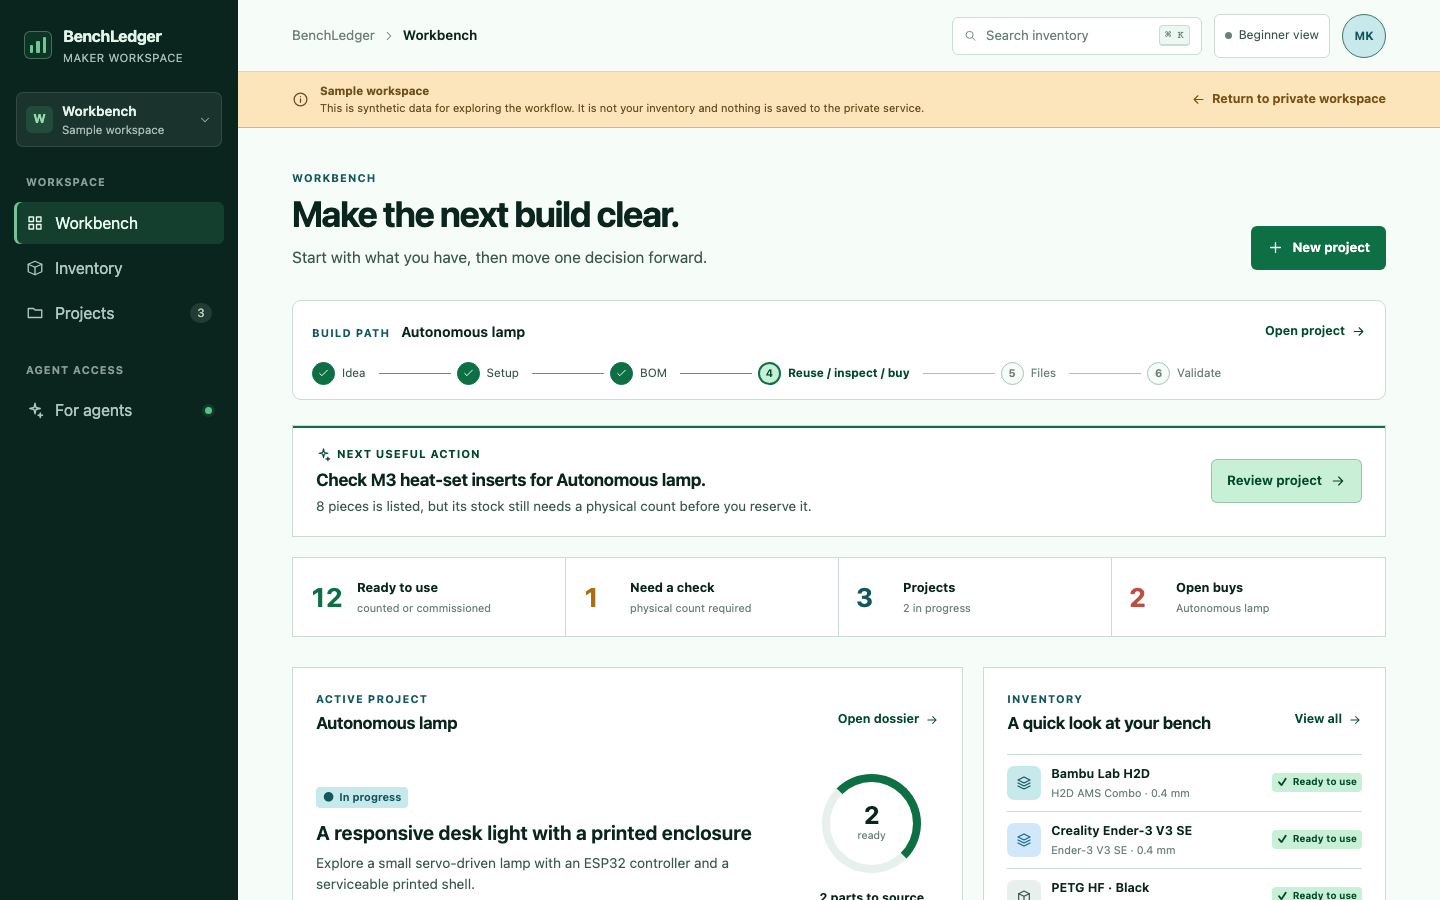
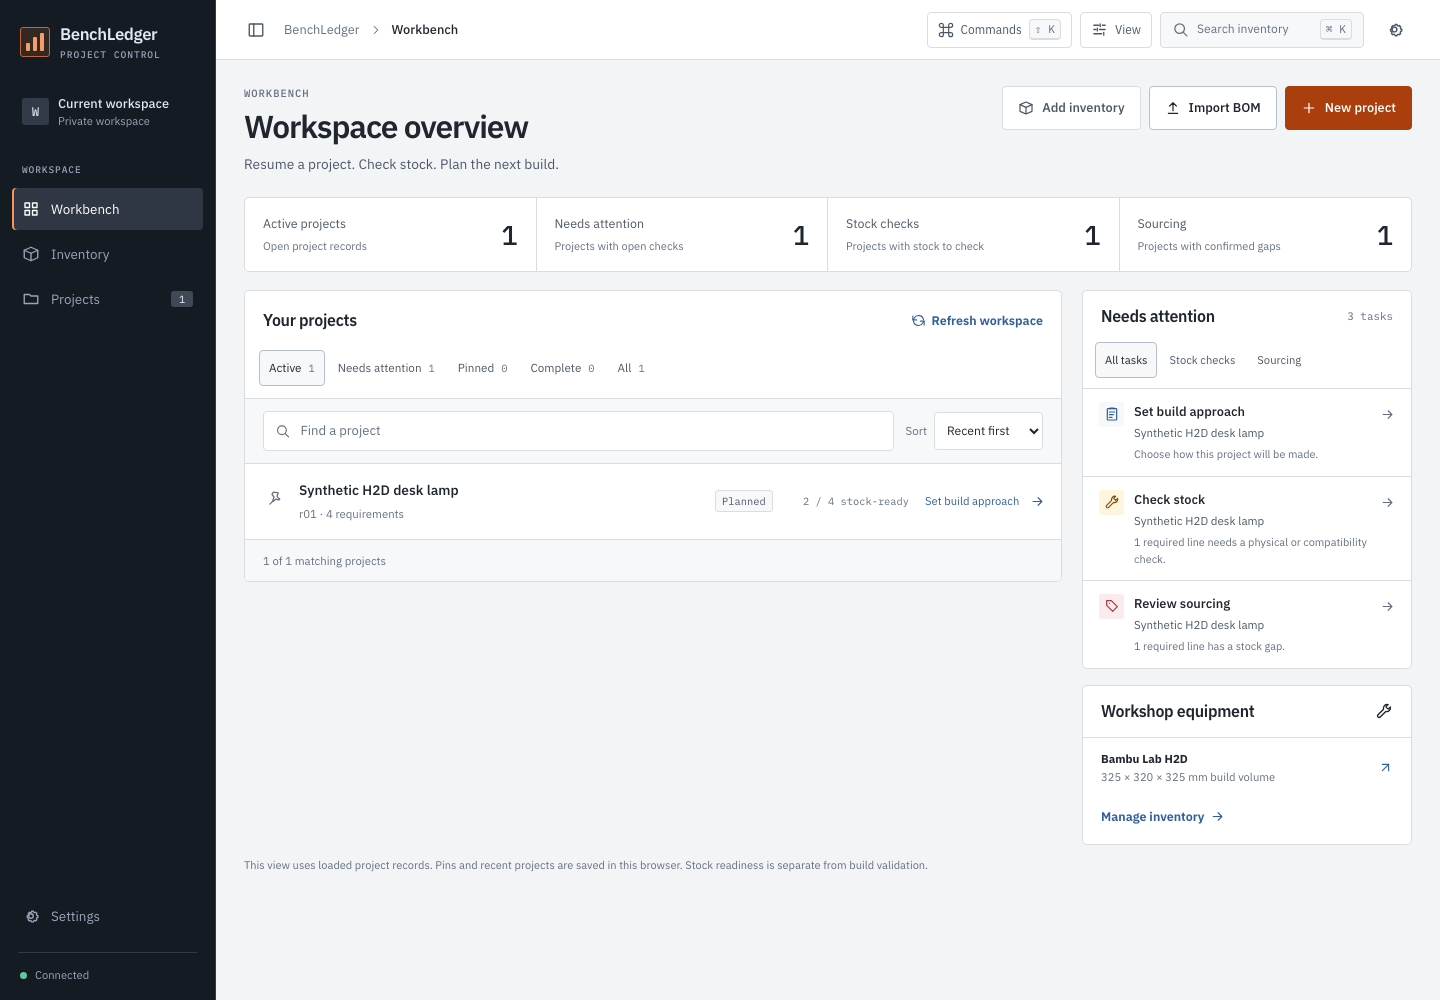
docs: refresh README and maker visuals

diff --git a/README.md b/README.md
@@ -1,215 +1,155 @@
 <p align="center">
-  <img src="docs/assets/benchledger-lockup.svg" alt="BenchLedger" width="520">
+  <img src="docs/assets/benchledger-lockup.svg" alt="BenchLedger" width="560">
 </p>
 
-<p align="center"><strong>Know what you have. Plan what to build. Close the loop.</strong></p>
+<p align="center"><strong>Your workshop's memory, project brain and AI-ready maker workspace.</strong></p>
 
 <p align="center">
-  BenchLedger is a self-hosted workspace for 3D-printing and electronics makers, from hobbyists to expert workshops.
+  BenchLedger helps 3D-printing and electronics makers go from <em>idea → parts → build → finished project</em><br>
+  without losing track of what they own, what they need, or why a decision was made.
 </p>
 
 <p align="center">
-  Manage projects yourself in the web UI, or ask an authorized AI agent to help. Both use the same records, application rules, and approval boundaries.
+  <img alt="Apache 2.0" src="https://img.shields.io/badge/license-Apache--2.0-0f766e">
+  <img alt="Node 24+" src="https://img.shields.io/badge/Node-24%2B-3c873a">
+  <img alt="Self-hosted" src="https://img.shields.io/badge/self--hosted-local--first-334155">
+  <img alt="MCP ready" src="https://img.shields.io/badge/AI-MCP--ready-c2410c">
 </p>
 
 > [!NOTE]
-> BenchLedger is an early open-source release. The private-LAN workflow is
-> working, but APIs, schemas, and MCP capabilities may change before 1.0.
+> BenchLedger is an early open-source release. The core private-LAN workflow works today, but APIs, schemas and MCP capabilities may change before 1.0.
 
-## Make a project you can trust
+![BenchLedger workbench showing active maker projects, stock checks, sourcing tasks and workshop equipment](docs/assets/benchledger-workspace.png)
 
-BenchLedger keeps the information around a maker project together. Use it to:
+## Why BenchLedger exists
 
-- Track printers, tools, accessories, spare parts, electronics, and consumables.
-- Keep exact product profiles for printers, filament, nozzles, plates, and parts.
-- Keep an append-only stock ledger with confirmed, uncertain, reserved, and unavailable states.
-- Start projects with work items, revisions, bills of materials (BOMs), and build gaps.
-- Correct project details and requirements, with reversible removal and retained history.
-- Export a read-only project brief or requirements CSV for review and handoff.
-- Use light or dark themes, compact rows and keyboard commands. See the [interface guide](docs/ui-design.md).
-- See what you can reuse, what needs a physical check, and what is missing.
-- Compare recorded supplier offers, package quantities, observed prices, and alternatives.
-- Keep versioned CAD, STEP, STL, 3MF, firmware, drawing, and validation files.
-- Bind build configurations and SHA-256 hashes to project revisions.
-- Record actual use, returns, loss, leftovers, and converted assets after a build.
+Maker projects get messy fast. The CAD file is in one folder. The printer profile is somewhere else. You *think* you still have the right filament. A part was ordered three months ago, but did it arrive? The BOM changed after revision two. An AI agent can help, but only if it has trustworthy context.
 
-It treats uncertainty honestly. An old order is evidence that something was bought,
-not proof that it is still on hand. A compatible-looking part is a candidate,
-not an exact match. Recommendations can retain their reason, source, observation
-time, and next physical check.
+BenchLedger gives the workshop one shared source of truth.
 
-## One workspace, two ways to work
+- **Know what you actually have.** Track printers, tools, filament, electronics, fasteners, spares and consumables with explicit evidence states.
+- **Plan builds properly.** Keep requirements, BOMs, revisions, fabrication routes, build setup and gaps together.
+- **Source what is missing.** Review recorded supplier offers, package quantities, prices and alternatives without pretending an order equals stock.
+- **Keep files tied to the build.** Store versioned CAD, STEP, STL, 3MF, firmware, drawings and validation artefacts against project revisions.
+- **Close the loop.** Record what was used, returned, lost, left over or converted into a new workshop asset.
+- **Let AI help safely.** Authorised agents use the same application rules and approval boundaries as the web UI through MCP.
 
-Use the web UI when you want to manage the project yourself. Add inventory,
-organize categories, create a project, review its BOM, attach files, and close
-out the build from the same workspace.
+## Built for real maker workflows
 
-Use authorized AI agents when you want help with the same bounded workflow.
-The model-neutral MCP server lets an agent inspect inventory, calculate BOM gaps,
-prepare shopping proposals, manage revisions and artifacts, and draft project
-close-out reconciliation. The agent works against the same records through the
-same application rules as the UI. It is not a separate agent-only system.
+BenchLedger is deliberately opinionated about uncertainty. **Bought** is not the same as **on hand**. **Looks compatible** is not the same as **verified**. **Recommended** is not the same as **approved**.
 
-Beginners see plain outcomes such as **Ready to use**, **Check quantity**, and
-**Need to buy**. Expert detail remains available in place: exact variants,
-dimensions, lots, compatibility evidence, build configuration, hashes, and audit history.
+That lets the interface stay simple for everyday use while preserving expert detail when you need it.
 
-BenchLedger does **not** purchase products, scrape retailers, execute uploads,
-slice models, generate G-code, or control printers.
+| Maker view | What it means |
+| --- | --- |
+| **Ready** | BenchLedger has enough evidence to use it |
+| **Check** | A physical count or compatibility check is needed |
+| **Decide** | The project needs a maker decision |
+| **Source** | The project has a confirmed gap |
 
-## A project from idea to close-out
+Technical mode exposes exact variants, dimensions, lots, provenance, revision scope, build configuration, hashes and audit history.
+## From idea to finished build
 
 ```mermaid
 flowchart LR
-  I[Inventory] --> P[Project]
-  P --> B[BOM and build setup]
-  B --> G{Gap check}
-  G -->|Reuse| R[Reserve stock]
-  G -->|Inspect| C[Physical check]
-  G -->|Missing| S[Shopping proposal]
-  R --> F[Files and validation]
-  C --> F
-  S --> F
-  F --> X[Post-project reconciliation]
-  X --> I
+  A[Idea] --> P[Project]
+  P --> R[Requirements + BOM]
+  R --> G{Gap check}
+  G -->|Ready| U[Reserve + build]
+  G -->|Check| C[Physical check]
+  G -->|Source| S[Review sourcing]
+  C --> U
+  S --> U
+  U --> F[Files + validation]
+  F --> X[Close-out]
+  X --> I[Updated inventory]
 ```
 
-![BenchLedger synthetic sample workspace showing a project build path, the next useful action, inventory status, and project summary](docs/assets/benchledger-workspace.png)
+The current release includes guided project setup, reviewed BOM imports, project corrections with retained history, inspection queues, sourcing review, revision-aware artefacts, interruption-safe saves and post-build reconciliation.
 
-### Set up inventory categories
+## AI-native, not AI-dependent
 
-Open **Settings → Manage inventory categories** before adding stock. Add a
-top-level category such as “Workshop” or “Electronics”; you can add one level of
-subcategories such as “Workshop / Measuring tools”. Rename or change the order
-when your storage changes, or archive a category that should no longer be used.
+BenchLedger works perfectly well as a normal web application. If you use ChatGPT, Codex, Claude or another MCP-capable agent, the same workspace can also become structured maker context.
 
-When you choose **Inventory → Add item**, select the item type first. Beginner
-mode derives its category; technical mode lets you choose an active managed
-category. The item type remains the semantic kind used for
-matching (for example, `tool` or `electronic`); the managed category is the
-display label and is used by the Category filter. Existing legacy items can stay
-unassigned until you edit them. If no category is available, the add form links
-back to Settings so you can create one before continuing.
+An authorised agent can inspect inventory, calculate project gaps, prepare sourcing proposals, manage revisions and artefact metadata, and draft close-out reconciliation. It cannot silently purchase products, publish files, purge history, control your printer or bypass physical verification.
 
-## Five-minute local demo
+That distinction matters: **the agent helps run the workflow; BenchLedger remains the system of record.**
 
-Requirements: Node.js 24 LTS and npm 11 or later.
+See the [10-minute agent quickstart](docs/agent-quickstart.md), [capability map](docs/capability-map.md) and bundled [`$benchledger` skill](skills/benchledger/SKILL.md).
+
+## Try it locally
+
+Requirements: **Node.js 24+** and **npm 11+**.
 
 ```bash
+git clone https://github.com/newtonlorenz/benchledger.git
+cd benchledger
 npm ci
+npm run build
 npm run dev
 ```
 
-Open [http://127.0.0.1:8792](http://127.0.0.1:8792). Development mode uses
-synthetic demo data; never copy a private inventory database into the checkout.
-The demo remains password-protected. A fresh trusted-LAN deployment with no
-bootstrap password hash starts with browser access in `lan_open` mode; use that
-mode only when every device on the network is trusted. An administrator can
-enable `password` mode in Settings.
+Open [http://127.0.0.1:8792](http://127.0.0.1:8792).
 
-For a production-like LAN installation with external persistent storage, follow
-the [deployment guide](docs/deployment.md).
+Development mode uses synthetic demo data, including a Bambu Lab H2D workshop example. The demo is password-protected and never requires private inventory data. For a production-like private-LAN installation with persistent storage, use the [deployment guide](docs/deployment.md).
 
-## Agent and MCP access
+## What you can manage
 
-BenchLedger is agent-native rather than agent-only. The model-neutral MCP server
-offers bounded resources and scoped tools over the same application service used
-by the web UI.
+- Printers, filament, tools, accessories, electronics, fasteners, wire and spare parts
+- Exact product profiles, variants and compatibility evidence
+- Physical counts, reservations, uncertainty and unavailable stock
+- Projects, requirements, revisions, BOMs and build approaches
+- Supplier offers, alternatives and sourcing decisions
+- CAD, STEP, STL, 3MF, firmware, drawings and validation files
+- Immutable build configuration snapshots and SHA-256 hashes
+- Inspection actions and physical verification
+- Project close-out, leftovers, losses, returns and newly created assets
 
-Use the bundled [`$benchledger` skill](skills/benchledger/SKILL.md) when your
-runtime supports skills. Otherwise begin with the
-[ten-minute agent quickstart](docs/agent-quickstart.md) and
-[capability map](docs/capability-map.md).
-
-Agents can inspect inventory, calculate BOM gaps, prepare shopping proposals,
-manage revisions and artifacts, and draft project close-out reconciliation. They
-cannot buy, publish, purge permanently, control a printer, or bypass physical
-verification. Browser access mode does not grant MCP access: `/api/v1/mcp`
-always requires a scoped bearer token, including when the browser is in
-`lan_open` mode.
-
-For file bytes, use browser Files or the trusted host helper
-`node scripts/artifact-transfer.mjs --help`. The helper requires separately
-authorised host filesystem access and privately configured credentials. It
-transfers one file to an explicit revision, verifies SHA-256 and byte length,
-and refuses redirects and download overwrites. MCP exposes metadata, not
-local paths, file bytes or credentials.
-
+BenchLedger does **not** slice models, generate G-code, control printers, scrape retailers or purchase products.
 ## Architecture
 
-BenchLedger is a TypeScript modular monolith:
+BenchLedger is a TypeScript modular monolith with one set of application rules behind every surface.
 
 ```text
 React + Vite web UI ─┐
 Fastify HTTP API ────┼─> application services ─> domain rules
 MCP adapter ─────────┘          │                    │
                                ├─> SQLite repositories
-                               └─> content-addressed artifact storage
+                               └─> content-addressed artefact storage
 ```
 
-The UI, HTTP API, and MCP adapter never write to SQLite or the filesystem
-directly. See the [capability map](docs/capability-map.md),
-[stock semantics](docs/stock-evidence-semantics.md), and
-[approval boundaries](docs/approval-boundaries.md) for the public contract.
+The UI, HTTP API and MCP adapter do not write directly to SQLite or the filesystem. Start with the [capability map](docs/capability-map.md), [stock evidence semantics](docs/stock-evidence-semantics.md) and [approval boundaries](docs/approval-boundaries.md) if you are extending the system.
 
-## Repository map
+## Project status
 
-| Path | Purpose |
-| --- | --- |
-| `apps/web` | Responsive beginner-to-expert interface |
-| `apps/server` | Fastify API, auth, OpenAPI, and application host |
-| `apps/mcp` | Model-neutral MCP adapter and protocol boundary |
-| `packages/domain` | Evidence-aware inventory and project rules |
-| `packages/application` | Use cases and ports shared by every surface |
-| `packages/database` | SQLite schema and repositories |
-| `packages/artifacts` | Content-addressed project file storage |
-| `skills/benchledger` | Portable workflow skill for compatible agents |
-| `docs` | Semantics, deployment, privacy, roadmap, and reference workflow |
+**Working now:** private-LAN app, authentication, guided setup, inventory and exact product profiles, project planning, reviewed sourcing, inspection workflows, revisioned artefacts, backups, scoped MCP access and post-project reconciliation.
 
-## Private data stays outside the repository
+**Pre-1.0:** APIs and schemas may still change. There are no published npm packages or hosted service guarantees yet.
 
-This source tree contains application code, documentation, deployment examples,
-and synthetic fixtures only. Do not commit real inventory, project artifacts,
-supplier history, order/message identifiers, `.env` files, credentials, SQLite
-databases, logs, backups, or private exports.
-
-Read [Privacy](docs/privacy.md) and [Security](SECURITY.md) before importing data.
-Run `npm run public:check` before sharing a branch or source archive.
+See [CHANGELOG.md](CHANGELOG.md), [reviewed maker workflows](docs/maker-workflows.md) and the [open-source readiness review](docs/open-source-readiness.md).
 
 ## Contributing
 
-Focused issues and pull requests are welcome.
-Start with [CONTRIBUTING.md](CONTRIBUTING.md), the
-[Code of Conduct](CODE_OF_CONDUCT.md), [development workflow](docs/development-workflow.md),
-and [support guide](SUPPORT.md).
+BenchLedger is being built in public for people who make physical things. Useful contributions include workflow friction you hit in a real workshop, support for additional maker domains, accessibility improvements, tests, documentation and focused code changes.
 
-During development, test the smallest affected surface. The complete release
-gate is:
+A good first contribution does not need to be large. If something feels confusing while you are setting up a printer, checking stock or planning a build, open an issue with the workflow you were trying to complete.
+
+Start with [CONTRIBUTING.md](CONTRIBUTING.md), the [Code of Conduct](CODE_OF_CONDUCT.md), [development workflow](docs/development-workflow.md) and [support guide](SUPPORT.md).
+
+Before submitting a change, run the smallest relevant tests. The complete release gate is:
 
 ```bash
 npm run check
 ```
 
-## Project status
+## Privacy by design
 
-- **Working:** private LAN app, external data boundary, authentication, scoped
-  MCP, projects/BOMs, exact product profiles, revisioned artifacts, backups, and
-  post-project reconciliation
-- **Pre-release:** APIs and schemas may still change; there are no published npm
-  packages or stable compatibility guarantees
-- **Not yet published:** npm packages or a hosted service
+Real workshop data stays outside the source tree. Do not commit private inventory, project artefacts, supplier history, order identifiers, `.env` files, credentials, SQLite databases, logs, backups or private exports.
 
-See [CHANGELOG.md](CHANGELOG.md) and the
-[open-source readiness review](docs/open-source-readiness.md).
+Read [Privacy](docs/privacy.md) and [Security](SECURITY.md), and run `npm run public:check` before sharing a branch or source archive.
 
-## License
+## Licence
 
-Licensed under the [Apache License 2.0](LICENSE).
+BenchLedger is open source under the [Apache License 2.0](LICENSE).
 
-## Reviewed setup, sourcing and build planning
-
-Use maker templates or a mapped CSV to preview and create a project. Existing
-projects support reviewed requirement imports, supplier quotes without invented
-owned stock, repeated-part/plate plans and workstream progress. See
-[reviewed maker workflows](docs/maker-workflows.md) for entry points, limits,
-HTTP/MCP contracts and the separate named-account rollout boundary.
+<p align="center"><strong>Build things. Keep the context. Make the next project easier.</strong></p>
